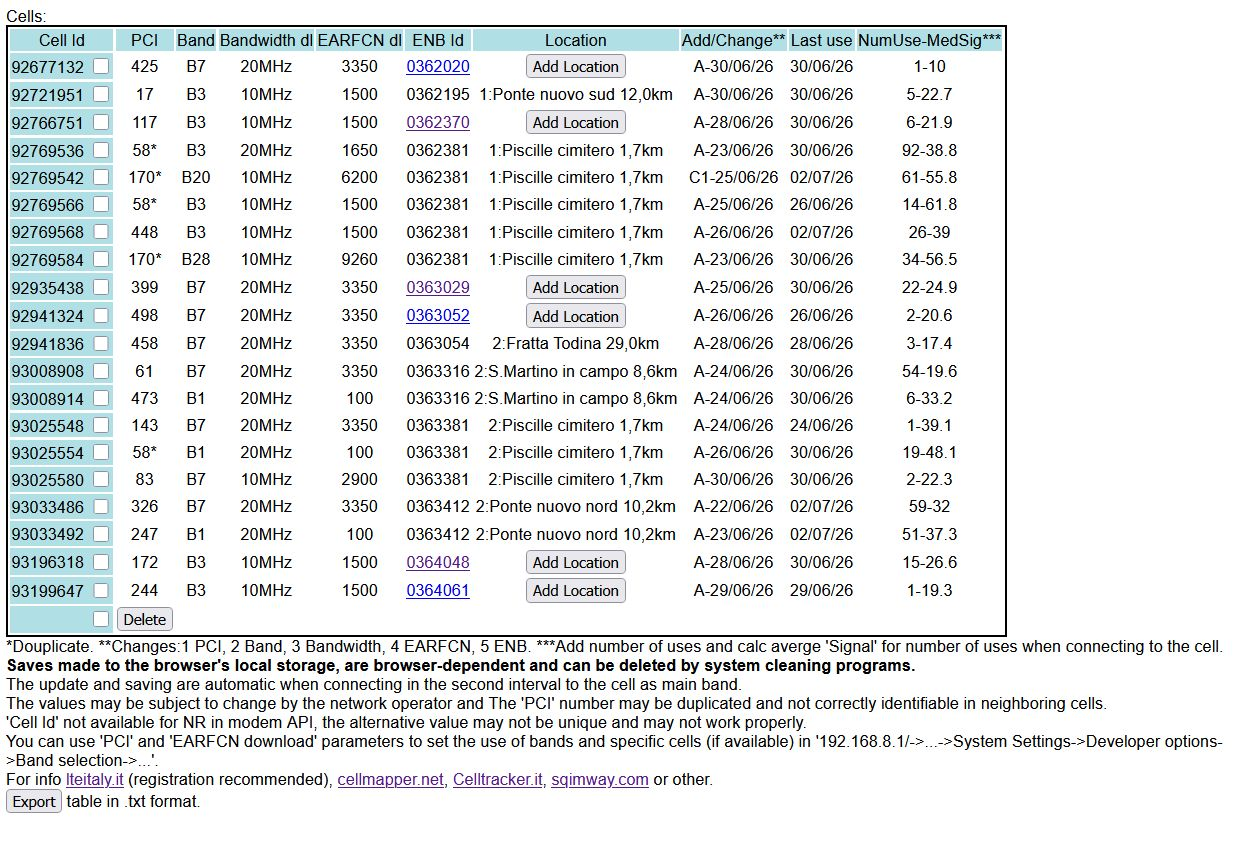
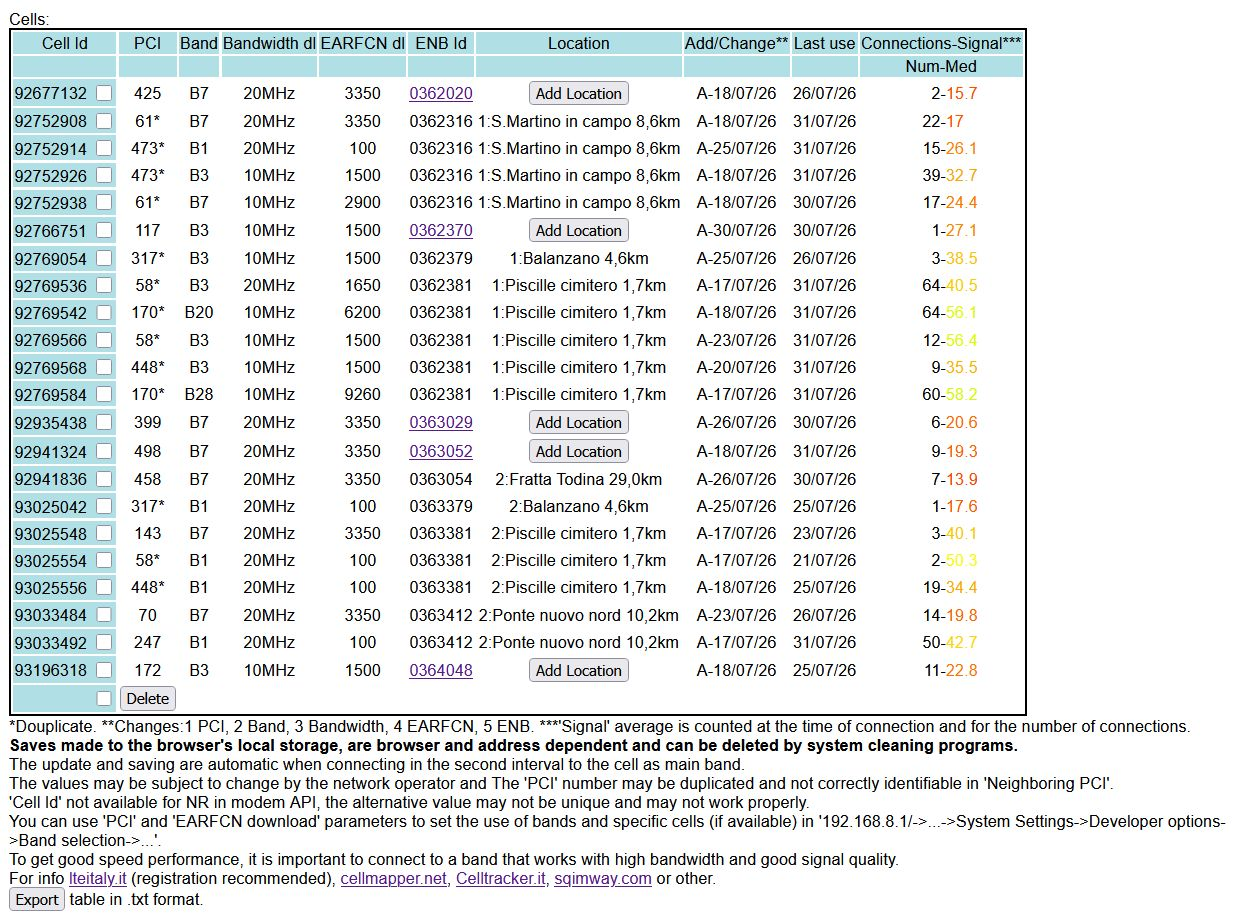
Huawei router Hack v1.6.3

Changed region(s): [[0.0, 0.0, 0.9862, 1.0]]

diff --git a/Huawei router Hack.js b/Huawei router Hack.js
@@ -505,6 +505,7 @@ function clickInfo()
 {
     alert("--- Definitions ---\nRSSI: Total signal strength of the useful signal+interference from signals from other cells+noise from other sources.\n\nRSRP: Useful signal strength of the cell to which you are connected.\n\nRSRQ: Implicit signal quality from the RSRP/RSSI ratio, which indicates the prevalence of the useful signal over the others.\n\nSINR: Explicit signal quality evaluation from the ratio of the useful signal strength to interference+noise strengths.\n\nCQI / Signal: Conventional signal quality evaluation calculated by the modem and sent to the BTS which, by adjusting the signal modulation, balances data transmission speed and connection reliability. / Signal quality evaluation calculated by balancing the underlying parameters.\n\nBandwidth: bandwidth used to transmit a maximum amount of data in one second.\n\nEARFCN: Conventional identification number used to identify the uplink or downlink frequency band (no real frequancy).\n\nCell Id / PCI: Identification number of a radio signal at a specific frequency or band transmitted and received by an BTS antenna / Short id. num. of a cell in a limited area.\n\nBTS / ENB Id: Base tower station / Id. num. of 2nd evolved node of a BTS.");
     alert("--- Parameters ---\n--- \"Signal\" QUALITY BALANCED (set in Hack script)\nsignal_balance_rssi="+signal_balance_rssi+"%\nsignal_balance_rsrp="+signal_balance_rsrp+"%\nsignal_balance_rsrq="+signal_balance_rsrq+"%\nsignal_balance_sinr="+signal_balance_sinr+"%\n\n--- SIGNAL VALUE LIMITS (set in Hack script)\nmax_rssi="+max_rssi+"dBm\tmin_rssi="+min_rssi+"dBm\nmax_rsrp="+max_rsrp+"dBm\tmin_rsrp="+min_rsrp+"dBm\nmax_rsrq="+max_rsrq+"dB\tmin_rsrq="+min_rsrq+"dB\nmax_sinr="+max_sinr+"dB\tmin_sinr="+min_sinr+"dB\n\n--- EARFCN (add & change in Hack script)\n(list)\n\n--- EARFCN GEOGRAPHICAL AREA (set in Hack script)\ngeo_area="+geo_area+"\n\n--- BTS LOCATIONS (add & change in Hack script)\n(permanent list)\n\n--- Other info ---\nSignal, band and cell parameters if not specified are LTE.\nWith 4G+5G modem, external antenna are 5G.\nThe Hack script processes the parameters made available by the router API.\n"+info);
+    if(defined["nr"])alert("If you have a 5G router and would like to help me improve the script, please send me your router's API data at fanoso@alice.it. To access the API, open and access the router's local URL (e.g., https://192.168.8.1) and, in another browser page, type https://192.168.8.1/api/device/signal. Please also send me the router model, year of purchase, and the software version in use. The value is only technical, not sensitive. Thank you.");
 }
 function clickStorage(tipo,b)
 {
@@ -512,7 +513,7 @@ function clickStorage(tipo,b)
     if(tipo=="rec")
     {
         wwi=1700;savq=["Input new record info (optional)."],savl=[35];
-        h0="*PCI(number detections).<br>";h1="Records:",h2="For analysis of recordings, select table, copy and paste it into an Excel sheet or 'Export' in .txt format.";
+        h0="*PCI(number detections).<br>",h1="Records:",h2="For analysis of recordings, select table, copy and paste it into an Excel sheet or 'Export' in .txt format.";
         re1=[["","Date and Time","Info","Network","Antennas","ENB Id","Band","Count-Time","RSRP","","","SINR","","","RSRQ","","","RSSI","Signal","","","CQI","","","Neighbor PCI"],["","","","",(defined["nr"]&&defined["lte"]?"5G":""),"","","","Med","Max","Min","Med","Max","Min","Med","Max","Min","Med","Med","Max","Min","Med","Max","Min","1st(N)-2nd(N)-3rd(N)-4th(N)*"]];
         re2=[];
         re3=JSON.parse(localStorage.getItem(sn));
@@ -520,21 +521,22 @@ function clickStorage(tipo,b)
     if(tipo=="bts")
     {
         wwi=900;savq=["Input new BTS location name (optional).\nThe BTS location name and available bands can also be permanently inserted directly into the Hack script.\nSearch for information about BTS locations on websites (ex. cellmapper.net or lteitaly.it).","Input availables BTS bands (optional)."],savl=[35,35];
-        h0="*Douplicate.<br>";h1="Locations:",h2="The values may be subject to change by the network operator.<br>To permanently save locations, add them manually to the bottom of the Hack script (grey in table).";
+        h0="*Douplicate.<br>",h1="Locations:",h2="The values may be subject to change by the network operator.<br>For a permanent inclusion of the location (grey in table), add them manually to the bottom of the Hack script.";
         re1=[["ENB Id","BTS location name","Availables bands"]];
         re2=JSON.parse(JSON.stringify(bts_location));
         re3=JSON.parse(localStorage.getItem(sn));
     }
     if(tipo=="cel")
     {
-        wwi=1100;h0="*Douplicate. **Changes:1 PCI, 2 Band, 3 Bandwidth, 4 EARFCN, 5 ENB. ***Add of NumberUsed and calc of average Signal/NumUse take place at the moment of connection to the cell.<br>";h1="Cells:",h2="The update and saving are automatic when connecting in the second interval to the cell as main band.<br>The values may be subject to change by the network operator and The 'PCI' number may be duplicated and not correctly identifiable in neighboring cells.<br>'Cell Id' not available for NR in modem API, the alternative value may not be unique and may not work properly.<br>You can use 'PCI' and 'EARFCN download' parameters to set the use of bands and specific cells (if available) in '192.168.8.1/->...->System Settings->Developer options->Band selection->...'.";
-        re1=[["Cell Id","PCI","Band","Bandwidth dl","EARFCN dl","ENB Id","Location","Add/Change**","Last use","NumUse-MedSig***"]];
+        wwi=1100;h0="*Douplicate. **Changes:1 PCI, 2 Band, 3 Bandwidth, 4 EARFCN, 5 ENB. ***'Signal' average is counted at the time of connection and for the number of connections.<br>",h1="Cells:",h2="The update and saving are automatic when connecting in the second interval to the cell as main band.<br>The values may be subject to change by the network operator and The 'PCI' number may be duplicated and not correctly identifiable in 'Neighboring PCI'.<br>'Cell Id' not available for NR in modem API, the alternative value may not be unique and may not work properly.<br>You can use 'PCI' and 'EARFCN download' parameters to set the use of bands and specific cells (if available) in '192.168.8.1/->...->System Settings->Developer options->Band selection->...'.<br>To get good speed performance, it is important to connect to a band that works with high bandwidth and good signal quality.";
+        re1=[["Cell Id","PCI","Band","Bandwidth dl","EARFCN dl","ENB Id","Location","Add/Change**","Last use","Connections-Signal***"],["","","","","","","","","","Num-Med"]];
         re2=[];
         re3=JSON.parse(localStorage.getItem(sn));re3s=JSON.parse(JSON.stringify(re3));
         for(const[a]of Object.entries(re3))
         {
             if(re3[a][4] in bts)re3[a].splice(5,0,bts[re3[a][4]][0]);
             else{re3[a].splice(5,0,"<button onclick='window.opener.clickStorage(\"bts\",\""+re3[a][4]+"\")'>Add Location</button>");re3[a][4]="<a target='_blank'href='"+link+re3[a][4].replace(/^0+/,"")+"'>"+re3[a][4]+"</a>"}
+            v=re3[a][8].split("-");v1=parseFloat(v[1]);re3[a][8]="<div style='text-align:right;float:left;width:53%'>"+v[0]+"-</div><div style='text-align:left;float:left;width:47%;color:rgb("+5*Math.round(v1<50?50:100-v1)+","+5*Math.round(v1>50?50:v1)+",0)'>"+v1+"</div>";
         }
         for(const[a]of Object.entries(re3))for(const[aa]of Object.entries(re3))if(re3[aa][0]==re3[a][0].replace("*","")&&a!=aa)re3[aa][0]+="*";
     }
@@ -567,7 +569,7 @@ function clickStorage(tipo,b)
         r="";re1.forEach(c=>r+=c+"\n");b=new Blob([(r+"\n- In script -\n"+JSON.stringify(re2)+"\n\n- In local storage -\n"+JSON.stringify(re3)).replaceAll("],","],\n")],{type:"text/plain"});
         l=document.createElement('a');l.href=URL.createObjectURL(b);l.download=sn+".txt";l.click();
     };
-    w.document.write("<!DOCTYPE html><html><style>body{font-family:Arial;font-size:.9em}table{text-align:center;border:2px solid black}</style><body>"+h1+"<br><span id='tb'></span>"+h0+"<b>Saves made to the browser's local storage, are browser-dependent and can be deleted by system cleaning programs.</b><br>"+h2+"<br><button onclick='savtxt()'>Export</button> table in .txt format.</body></html>");
+    w.document.write("<!DOCTYPE html><html><style>body{font-family:Arial;font-size:.9em}table{text-align:center;border:2px solid black}</style><body>"+h1+"<br><span id='tb'></span>"+h0+"<b>Saves made to the browser's local storage, are browser and address dependent and can be deleted by system cleaning programs.</b><br>"+h2+"<br><button onclick='savtxt()'>Export</button> table in .txt format.</body></html>");
     tab();
     if(b)setTimeout(function()
     {
@@ -802,8 +804,8 @@ balance_rsrq=qq/totq;balance_sinr=qr/totq;
 earfcn=[];/*
 earfcn["geo area"]={"lte or nr":{"band":[earfcn dl min,earfcn dl max,earfcn ul min,earfcn ul max],...};...*/
 earfcn["eur"]={
-"lte":{"1":  [0,599,18000,18300]          ,"3":  [1200,1949,19200,19949]      ,"7":  [2750,3449,20750,21449]      ,"20": [6150,6449,24150,24449]     
-      ,"28": [9210,9659,27210,27659]      ,"32": [9920,10359,,]},
+"lte":{"1":  [0,599,18000,18300]          ,"3":  [1200,1949,19200,19949]      ,"7":  [2750,3449,20750,21449]      ,"8":  [3450,3799,21450,21799]
+      ,"20": [6150,6449,24150,24449]      ,"28": [9210,9659,27210,27659]      ,"32": [9920,10359,,]},
 "nr": {"1":  [422000,434000,384000,396000],"3":  [361000,376000,342000,357000],"7":  [524000,538000,500000,514000],"8":  [185000,192000,176000,183000]
       ,"20": [158200,164200,166400,172400],"28": [151600,160600,140600,149600],"38": [514000,524000,514000,524000],"78": [620000,653333,620000,653333]
       ,"258":[2016667,2070832,,]},
@@ -834,6 +836,6 @@ var bts_location={/*
 "0363379":["2:Balanzano 4,6km"                  ,""],
 };
 status="",netmode="",signal="",antennatype="",start(),currentData(),interval=setInterval(currentData,itime);
-info="Huawei router Hack - Base code v5.0 by miononno.it, Advanced v1.6.2 by Riccardo Fanelli.\nTested with Huawei B818 and B636 4G router and Firefox, Edge, Chrome browsers.";
-tit("Che la banda sia con te! Hack by Miononno&%239829; & Riccardo Fanelli"),setTimeout(tit,4000);msg(info+"\nType: netmode, signal, status, antennatype");
+tit("Che la banda sia con te! Hack by Miononno&%239829; & Riccardo Fanelli"),setTimeout(tit,4000);
+info="Huawei router Hack - Base code v5.0 by miononno.it, Advanced v1.6.3 by Riccardo Fanelli.\nTested with Huawei B818 and B636 4G router and Firefox, Edge, Chrome browsers.",msg(info+"\nType: netmode, signal, status, antennatype");
 /*for URLformat "#"in"%23"*/

diff --git a/README.md b/README.md
@@ -17,7 +17,7 @@
 
 ### Info
 - Tested with **Huawei B818 and B636 4G router** and Firefox, Edge, Chrome browsers. 
-- Base code v5.0 by miononno.it, Advanced **v1.6.2** by Riccardo Fanelli.
+- Base code v5.0 by miononno.it, Advanced **v1.6.3** by Riccardo Fanelli.
 
 ---
 
@@ -36,7 +36,7 @@
 
 ### Info
 - Testato con **Huawei B818 e B636 4G** e browser **Firefox, Edge, Chrome**.
-- Codice base v5.0 di miononno.it, Evoluzione **v1.6.2** di Riccardo Fanelli.
+- Codice base v5.0 di miononno.it, Evoluzione **v1.6.3** di Riccardo Fanelli.
 
 ---
 
@@ -554,6 +554,7 @@ function clickInfo()
 {
     alert("--- Definitions ---\nRSSI: Total signal strength of the useful signal+interference from signals from other cells+noise from other sources.\n\nRSRP: Useful signal strength of the cell to which you are connected.\n\nRSRQ: Implicit signal quality from the RSRP/RSSI ratio, which indicates the prevalence of the useful signal over the others.\n\nSINR: Explicit signal quality evaluation from the ratio of the useful signal strength to interference+noise strengths.\n\nCQI / Signal: Conventional signal quality evaluation calculated by the modem and sent to the BTS which, by adjusting the signal modulation, balances data transmission speed and connection reliability. / Signal quality evaluation calculated by balancing the underlying parameters.\n\nBandwidth: bandwidth used to transmit a maximum amount of data in one second.\n\nEARFCN: Conventional identification number used to identify the uplink or downlink frequency band (no real frequancy).\n\nCell Id / PCI: Identification number of a radio signal at a specific frequency or band transmitted and received by an BTS antenna / Short id. num. of a cell in a limited area.\n\nBTS / ENB Id: Base tower station / Id. num. of 2nd evolved node of a BTS.");
     alert("--- Parameters ---\n--- \"Signal\" QUALITY BALANCED (set in Hack script)\nsignal_balance_rssi="+signal_balance_rssi+"%\nsignal_balance_rsrp="+signal_balance_rsrp+"%\nsignal_balance_rsrq="+signal_balance_rsrq+"%\nsignal_balance_sinr="+signal_balance_sinr+"%\n\n--- SIGNAL VALUE LIMITS (set in Hack script)\nmax_rssi="+max_rssi+"dBm\tmin_rssi="+min_rssi+"dBm\nmax_rsrp="+max_rsrp+"dBm\tmin_rsrp="+min_rsrp+"dBm\nmax_rsrq="+max_rsrq+"dB\tmin_rsrq="+min_rsrq+"dB\nmax_sinr="+max_sinr+"dB\tmin_sinr="+min_sinr+"dB\n\n--- EARFCN (add & change in Hack script)\n(list)\n\n--- EARFCN GEOGRAPHICAL AREA (set in Hack script)\ngeo_area="+geo_area+"\n\n--- BTS LOCATIONS (add & change in Hack script)\n(permanent list)\n\n--- Other info ---\nSignal, band and cell parameters if not specified are LTE.\nWith 4G+5G modem, external antenna are 5G.\nThe Hack script processes the parameters made available by the router API.\n"+info);
+    if(defined["nr"])alert("If you have a 5G router and would like to help me improve the script, please send me your router's API data at fanoso@alice.it. To access the API, open and access the router's local URL (e.g., https://192.168.8.1) and, in another browser page, type https://192.168.8.1/api/device/signal. Please also send me the router model, year of purchase, and the software version in use. The value is only technical, not sensitive. Thank you.");
 }
 function clickStorage(tipo,b)
 {
@@ -561,7 +562,7 @@ function clickStorage(tipo,b)
     if(tipo=="rec")
     {
         wwi=1700;savq=["Input new record info (optional)."],savl=[35];
-        h0="*PCI(number detections).<br>";h1="Records:",h2="For analysis of recordings, select table, copy and paste it into an Excel sheet or 'Export' in .txt format.";
+        h0="*PCI(number detections).<br>",h1="Records:",h2="For analysis of recordings, select table, copy and paste it into an Excel sheet or 'Export' in .txt format.";
         re1=[["","Date and Time","Info","Network","Antennas","ENB Id","Band","Count-Time","RSRP","","","SINR","","","RSRQ","","","RSSI","Signal","","","CQI","","","Neighbor PCI"],["","","","",(defined["nr"]&&defined["lte"]?"5G":""),"","","","Med","Max","Min","Med","Max","Min","Med","Max","Min","Med","Med","Max","Min","Med","Max","Min","1st(N)-2nd(N)-3rd(N)-4th(N)*"]];
         re2=[];
         re3=JSON.parse(localStorage.getItem(sn));
@@ -569,21 +570,22 @@ function clickStorage(tipo,b)
     if(tipo=="bts")
     {
         wwi=900;savq=["Input new BTS location name (optional).\nThe BTS location name and available bands can also be permanently inserted directly into the Hack script.\nSearch for information about BTS locations on websites (ex. cellmapper.net or lteitaly.it).","Input availables BTS bands (optional)."],savl=[35,35];
-        h0="*Douplicate.<br>";h1="Locations:",h2="The values may be subject to change by the network operator.<br>To permanently save locations, add them manually to the bottom of the Hack script (grey in table).";
+        h0="*Douplicate.<br>",h1="Locations:",h2="The values may be subject to change by the network operator.<br>For a permanent inclusion of the location (grey in table), add them manually to the bottom of the Hack script.";
         re1=[["ENB Id","BTS location name","Availables bands"]];
         re2=JSON.parse(JSON.stringify(bts_location));
         re3=JSON.parse(localStorage.getItem(sn));
     }
     if(tipo=="cel")
     {
-        wwi=1100;h0="*Douplicate. **Changes:1 PCI, 2 Band, 3 Bandwidth, 4 EARFCN, 5 ENB. ***Add of NumberUsed and calc of average Signal/NumUse take place at the moment of connection to the cell.<br>";h1="Cells:",h2="The update and saving are automatic when connecting in the second interval to the cell as main band.<br>The values may be subject to change by the network operator and The 'PCI' number may be duplicated and not correctly identifiable in neighboring cells.<br>'Cell Id' not available for NR in modem API, the alternative value may not be unique and may not work properly.<br>You can use 'PCI' and 'EARFCN download' parameters to set the use of bands and specific cells (if available) in '192.168.8.1/->...->System Settings->Developer options->Band selection->...'.";
-        re1=[["Cell Id","PCI","Band","Bandwidth dl","EARFCN dl","ENB Id","Location","Add/Change**","Last use","NumUse-MedSig***"]];
+        wwi=1100;h0="*Douplicate. **Changes:1 PCI, 2 Band, 3 Bandwidth, 4 EARFCN, 5 ENB. ***'Signal' average is counted at the time of connection and for the number of connections.<br>",h1="Cells:",h2="The update and saving are automatic when connecting in the second interval to the cell as main band.<br>The values may be subject to change by the network operator and The 'PCI' number may be duplicated and not correctly identifiable in 'Neighboring PCI'.<br>'Cell Id' not available for NR in modem API, the alternative value may not be unique and may not work properly.<br>You can use 'PCI' and 'EARFCN download' parameters to set the use of bands and specific cells (if available) in '192.168.8.1/->...->System Settings->Developer options->Band selection->...'.<br>To get good speed performance, it is important to connect to a band that works with high bandwidth and good signal quality.";
+        re1=[["Cell Id","PCI","Band","Bandwidth dl","EARFCN dl","ENB Id","Location","Add/Change**","Last use","Connections-Signal***"],["","","","","","","","","","Num-Med"]];
         re2=[];
         re3=JSON.parse(localStorage.getItem(sn));re3s=JSON.parse(JSON.stringify(re3));
         for(const[a]of Object.entries(re3))
         {
             if(re3[a][4] in bts)re3[a].splice(5,0,bts[re3[a][4]][0]);
             else{re3[a].splice(5,0,"<button onclick='window.opener.clickStorage(\"bts\",\""+re3[a][4]+"\")'>Add Location</button>");re3[a][4]="<a target='_blank'href='"+link+re3[a][4].replace(/^0+/,"")+"'>"+re3[a][4]+"</a>"}
+            v=re3[a][8].split("-");v1=parseFloat(v[1]);re3[a][8]="<div style='text-align:right;float:left;width:53%'>"+v[0]+"-</div><div style='text-align:left;float:left;width:47%;color:rgb("+5*Math.round(v1<50?50:100-v1)+","+5*Math.round(v1>50?50:v1)+",0)'>"+v1+"</div>";
         }
         for(const[a]of Object.entries(re3))for(const[aa]of Object.entries(re3))if(re3[aa][0]==re3[a][0].replace("*","")&&a!=aa)re3[aa][0]+="*";
     }
@@ -616,7 +618,7 @@ function clickStorage(tipo,b)
         r="";re1.forEach(c=>r+=c+"\n");b=new Blob([(r+"\n- In script -\n"+JSON.stringify(re2)+"\n\n- In local storage -\n"+JSON.stringify(re3)).replaceAll("],","],\n")],{type:"text/plain"});
         l=document.createElement('a');l.href=URL.createObjectURL(b);l.download=sn+".txt";l.click();
     };
-    w.document.write("<!DOCTYPE html><html><style>body{font-family:Arial;font-size:.9em}table{text-align:center;border:2px solid black}</style><body>"+h1+"<br><span id='tb'></span>"+h0+"<b>Saves made to the browser's local storage, are browser-dependent and can be deleted by system cleaning programs.</b><br>"+h2+"<br><button onclick='savtxt()'>Export</button> table in .txt format.</body></html>");
+    w.document.write("<!DOCTYPE html><html><style>body{font-family:Arial;font-size:.9em}table{text-align:center;border:2px solid black}</style><body>"+h1+"<br><span id='tb'></span>"+h0+"<b>Saves made to the browser's local storage, are browser and address dependent and can be deleted by system cleaning programs.</b><br>"+h2+"<br><button onclick='savtxt()'>Export</button> table in .txt format.</body></html>");
     tab();
     if(b)setTimeout(function()
     {
@@ -851,8 +853,8 @@ balance_rsrq=qq/totq;balance_sinr=qr/totq;
 earfcn=[];/*
 earfcn["geo area"]={"lte or nr":{"band":[earfcn dl min,earfcn dl max,earfcn ul min,earfcn ul max],...};...*/
 earfcn["eur"]={
-"lte":{"1":  [0,599,18000,18300]          ,"3":  [1200,1949,19200,19949]      ,"7":  [2750,3449,20750,21449]      ,"20": [6150,6449,24150,24449]     
-      ,"28": [9210,9659,27210,27659]      ,"32": [9920,10359,,]},
+"lte":{"1":  [0,599,18000,18300]          ,"3":  [1200,1949,19200,19949]      ,"7":  [2750,3449,20750,21449]      ,"8":  [3450,3799,21450,21799]
+      ,"20": [6150,6449,24150,24449]      ,"28": [9210,9659,27210,27659]      ,"32": [9920,10359,,]},
 "nr": {"1":  [422000,434000,384000,396000],"3":  [361000,376000,342000,357000],"7":  [524000,538000,500000,514000],"8":  [185000,192000,176000,183000]
       ,"20": [158200,164200,166400,172400],"28": [151600,160600,140600,149600],"38": [514000,524000,514000,524000],"78": [620000,653333,620000,653333]
       ,"258":[2016667,2070832,,]},
@@ -883,7 +885,7 @@ var bts_location={/*
 "0363379":["2:Balanzano 4,6km"                  ,""],
 };
 status="",netmode="",signal="",antennatype="",start(),currentData(),interval=setInterval(currentData,itime);
-info="Huawei router Hack - Base code v5.0 by miononno.it, Advanced v1.6.2 by Riccardo Fanelli.\nTested with Huawei B818 and B636 4G router and Firefox, Edge, Chrome browsers.";
-tit("Che la banda sia con te! Hack by Miononno&%239829; & Riccardo Fanelli"),setTimeout(tit,4000);msg(info+"\nType: netmode, signal, status, antennatype");
+tit("Che la banda sia con te! Hack by Miononno&%239829; & Riccardo Fanelli"),setTimeout(tit,4000);
+info="Huawei router Hack - Base code v5.0 by miononno.it, Advanced v1.6.3 by Riccardo Fanelli.\nTested with Huawei B818 and B636 4G router and Firefox, Edge, Chrome browsers.",msg(info+"\nType: netmode, signal, status, antennatype");
 /*for URLformat "#"in"%23"*/
 ```
